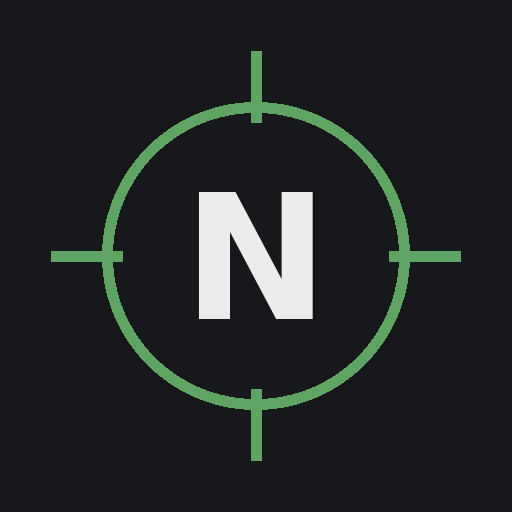
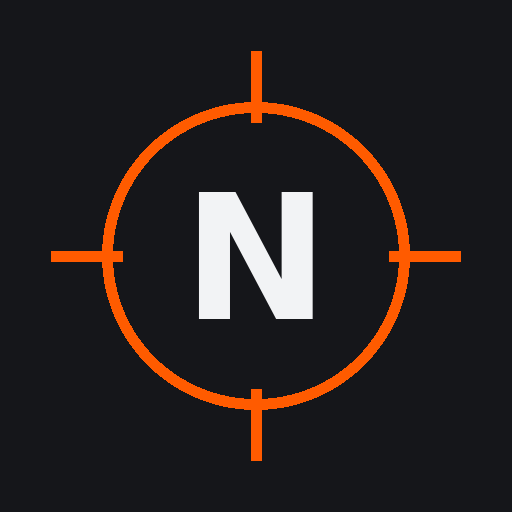
dk

Changed region(s): [[0.0938, 0.0938, 0.9062, 0.9062]]

diff --git a/app/globals.css b/app/globals.css
@@ -1,8 +1,8 @@
 @import url('https://fonts.googleapis.com/css2?family=Archivo:wght@500;600;700;800&family=Manrope:wght@400;500;600;700&display=swap');
 
 :root{
-  --bg:#16181b; --surface:#1e2125; --surface2:#24282d;
-  --border:#2b2f34; --text:#ececec; --muted:#9aa0a7; --accent:#5fa463; --logo:#5fa463;
+  --bg:#15161a; --surface:#1e2026; --surface2:#25282f;
+  --border:#2a2d34; --text:#f2f3f5; --muted:#9aa0aa; --accent:#ff5b00; --logo:#ff5b00;
 }
 *{box-sizing:border-box;}
 html,body{margin:0;padding:0;}
@@ -24,12 +24,12 @@ body{font-family:'Manrope',sans-serif;background:var(--bg);color:var(--text);min
 
 .ub-header{display:flex;align-items:center;justify-content:space-between;padding:18px 28px;border-bottom:1px solid var(--border);background:rgba(22,24,27,.9);backdrop-filter:blur(8px);position:sticky;top:0;z-index:20;gap:12px;flex-wrap:wrap;}
 .ub-headbtns{display:flex;align-items:center;gap:8px;flex-wrap:wrap;}
-.ub-adminflag{display:inline-flex;align-items:center;font-size:11px;font-weight:700;letter-spacing:1px;text-transform:uppercase;color:var(--accent);background:#16271b;border:1px solid rgba(95,164,99,.4);border-radius:999px;padding:3px 10px;}
+.ub-adminflag{display:inline-flex;align-items:center;font-size:11px;font-weight:700;letter-spacing:1px;text-transform:uppercase;color:var(--accent);background:#2a1408;border:1px solid rgba(255,91,0,.4);border-radius:999px;padding:3px 10px;}
 .ub-savemsg{font-size:12px;color:var(--muted);align-self:center;}
 .ub-toolbtn{display:inline-flex;align-items:center;gap:6px;background:var(--surface);border:1px solid var(--border);border-radius:8px;color:var(--muted);padding:9px 13px;font-family:'Manrope',sans-serif;font-weight:600;font-size:13px;cursor:pointer;transition:all .15s;}
 .ub-toolbtn:hover{color:var(--text);border-color:#3b4046;}
 .ub-toolbtn:disabled{opacity:.6;cursor:default;}
-.ub-addbtn{display:inline-flex;align-items:center;gap:7px;background:var(--accent);color:#0d1f12;border:none;border-radius:8px;padding:9px 16px;font-family:'Manrope',sans-serif;font-weight:700;font-size:13px;cursor:pointer;transition:background .15s,transform .1s;}
+.ub-addbtn{display:inline-flex;align-items:center;gap:7px;background:var(--accent);color:#1f0c04;border:none;border-radius:8px;padding:9px 16px;font-family:'Manrope',sans-serif;font-weight:700;font-size:13px;cursor:pointer;transition:background .15s,transform .1s;}
 .ub-addbtn:hover{background:#ff7d4f;}
 .ub-addbtn:active{transform:translateY(1px);}
 
@@ -46,7 +46,7 @@ body{font-family:'Manrope',sans-serif;background:var(--bg);color:var(--text);min
 .ub-mapcard-name{font-weight:600;font-size:14px;color:var(--text);}
 .ub-mapcard-count{font-size:12px;color:var(--muted);background:var(--surface2);border-radius:999px;padding:1px 8px;}
 .ub-mapcard:hover{border-color:#3b4046;}
-.ub-mapcard.active{border-color:var(--accent);background:#16271b;}
+.ub-mapcard.active{border-color:var(--accent);background:#2a1408;}
 .ub-mapcard.active .ub-mapcard-count{color:var(--accent);}
 
 .ub-controls{display:flex;flex-wrap:wrap;gap:12px;align-items:center;padding:22px 28px;}
@@ -54,11 +54,11 @@ body{font-family:'Manrope',sans-serif;background:var(--bg);color:var(--text);min
 .ub-filter-icon{color:var(--muted);}
 .ub-pill{display:inline-flex;align-items:center;gap:6px;background:var(--surface);border:1px solid var(--border);border-radius:999px;color:var(--muted);padding:7px 14px;font-size:13px;cursor:pointer;transition:all .15s;font-family:'Manrope',sans-serif;}
 .ub-pill:hover{color:var(--text);border-color:#3b4046;}
-.ub-pill.active{background:var(--accent);border-color:var(--accent);color:#0d1f12;font-weight:700;}
-.ub-pill-type.active{background:#16271b;font-weight:700;}
+.ub-pill.active{background:var(--accent);border-color:var(--accent);color:#1f0c04;font-weight:700;}
+.ub-pill-type.active{background:#2a1408;font-weight:700;}
 .ub-viewtoggle{display:flex;border:1px solid var(--border);border-radius:999px;overflow:hidden;}
 .ub-viewtoggle button{display:inline-flex;align-items:center;gap:6px;background:var(--surface);border:none;color:var(--muted);padding:7px 14px;font-size:13px;cursor:pointer;font-family:'Manrope',sans-serif;}
-.ub-viewtoggle button.active{background:#16271b;color:var(--accent);font-weight:600;}
+.ub-viewtoggle button.active{background:#2a1408;color:var(--accent);font-weight:600;}
 .ub-search{margin-left:auto;display:flex;align-items:center;gap:8px;background:var(--surface);border:1px solid var(--border);border-radius:999px;padding:7px 15px;color:var(--muted);}
 .ub-search input{background:none;border:none;outline:none;color:var(--text);font-family:'Manrope',sans-serif;font-size:13px;width:150px;}
 .ub-search input::placeholder{color:var(--muted);}
@@ -79,14 +79,14 @@ body{font-family:'Manrope',sans-serif;background:var(--bg);color:var(--text);min
 .ub-map-schema{position:absolute;inset:0;}
 .ub-zone{position:absolute;z-index:1;border:1px solid var(--border);border-radius:8px;background:rgba(255,255,255,.02);display:flex;align-items:center;justify-content:center;text-align:center;padding:2px;overflow:hidden;}
 .ub-zone span{font-family:'Archivo',sans-serif;font-size:11px;font-weight:600;color:var(--muted);letter-spacing:.3px;white-space:nowrap;}
-.ub-zone.site{border-color:rgba(95,164,99,.45);background:rgba(95,164,99,.07);}
+.ub-zone.site{border-color:rgba(255,91,0,.45);background:rgba(255,91,0,.07);}
 .ub-zone.site span{color:var(--accent);font-size:13px;font-weight:700;}
 .ub-pin{position:absolute;z-index:2;transform:translate(-50%,-50%);background:none;border:none;cursor:pointer;padding:0;}
 .ub-pin-dot{display:block;width:15px;height:15px;border-radius:50%;background:var(--pin,var(--accent));border:2.5px solid #16181b;box-shadow:0 1px 6px rgba(0,0,0,.55);transition:transform .15s;}
 .ub-pin:hover .ub-pin-dot{transform:scale(1.3);}
 .ub-pin-marker{display:flex;align-items:center;justify-content:center;width:27px;height:27px;border-radius:50%;background:var(--pin,var(--accent));border:2.5px solid #16181b;box-shadow:0 1px 6px rgba(0,0,0,.55);color:#16181b;transition:transform .15s;}
 .ub-pin:hover .ub-pin-marker{transform:scale(1.16);}
-.ub-pin-draft{--pin:#5fa463;pointer-events:none;animation:ubpulse 1.1s infinite;}
+.ub-pin-draft{--pin:#ff5b00;pointer-events:none;animation:ubpulse 1.1s infinite;}
 @keyframes ubpulse{0%,100%{opacity:1;}50%{opacity:.45;}}
 .ub-maplegend{background:var(--surface);border:1px solid var(--border);border-radius:14px;padding:18px 20px;min-width:200px;flex:1 1 240px;}
 .ub-legend-title{font-size:12px;letter-spacing:.5px;color:var(--muted);margin-bottom:14px;}
@@ -127,7 +127,7 @@ body{font-family:'Manrope',sans-serif;background:var(--bg);color:var(--text);min
 .ub-throw{color:var(--text);}
 .ub-video{margin:18px 0;border-radius:12px;overflow:hidden;border:1px solid var(--border);background:#000;aspect-ratio:16/9;}
 .ub-video video,.ub-video iframe{width:100%;height:100%;display:block;border:0;}
-.ub-tip{background:#16271b;border:1px solid rgba(95,164,99,.28);border-radius:10px;padding:14px 16px;margin:18px 0;font-size:14px;line-height:1.6;color:var(--text);}
+.ub-tip{background:#2a1408;border:1px solid rgba(255,91,0,.28);border-radius:10px;padding:14px 16px;margin:18px 0;font-size:14px;line-height:1.6;color:var(--text);}
 .ub-tip-label{display:block;font-size:11px;letter-spacing:1px;color:var(--accent);margin-bottom:6px;text-transform:uppercase;}
 .ub-steps-label{font-size:11px;letter-spacing:1px;text-transform:uppercase;color:var(--muted);margin:18px 0 10px;}
 .ub-steps{display:grid;grid-template-columns:repeat(auto-fit,minmax(200px,1fr));gap:14px;}
@@ -150,7 +150,7 @@ body{font-family:'Manrope',sans-serif;background:var(--bg);color:var(--text);min
 .ub-field{display:flex;flex-direction:column;gap:5px;}
 .ub-field span{font-size:12px;letter-spacing:.3px;color:var(--muted);}
 .ub-field input,.ub-field select,.ub-field textarea{background:var(--bg);border:1px solid var(--border);border-radius:8px;color:var(--text);padding:10px 12px;font-family:'Manrope',sans-serif;font-size:14px;outline:none;}
-.ub-field input:focus,.ub-field select:focus,.ub-field textarea:focus{border-color:var(--accent);box-shadow:0 0 0 3px rgba(95,164,99,.14);}
+.ub-field input:focus,.ub-field select:focus,.ub-field textarea:focus{border-color:var(--accent);box-shadow:0 0 0 3px rgba(255,91,0,.14);}
 .ub-field-row{display:flex;gap:12px;}
 .ub-field-row .ub-field{flex:1;}
 .ub-steps-edit{border:1px solid var(--border);border-radius:10px;padding:14px;display:flex;flex-direction:column;gap:9px;background:var(--bg);}
@@ -160,7 +160,7 @@ body{font-family:'Manrope',sans-serif;background:var(--bg);color:var(--text);min
 .ub-step-edit select,.ub-step-edit input{background:var(--surface);border:1px solid var(--border);border-radius:7px;color:var(--text);padding:8px 9px;font-family:'Manrope',sans-serif;font-size:13px;outline:none;}
 .ub-step-rm{background:var(--surface);border:1px solid var(--border);border-radius:7px;color:var(--muted);cursor:pointer;padding:7px;display:flex;}
 .ub-step-rm:hover{color:#e0483a;border-color:#5e2b26;}
-.ub-btn-primary{display:inline-flex;align-items:center;justify-content:center;gap:7px;background:var(--accent);color:#0d1f12;border:none;border-radius:8px;padding:11px 18px;font-family:'Manrope',sans-serif;font-weight:700;font-size:14px;cursor:pointer;transition:background .15s;}
+.ub-btn-primary{display:inline-flex;align-items:center;justify-content:center;gap:7px;background:var(--accent);color:#1f0c04;border:none;border-radius:8px;padding:11px 18px;font-family:'Manrope',sans-serif;font-weight:700;font-size:14px;cursor:pointer;transition:background .15s;}
 .ub-btn-primary:hover{background:#ff7d4f;}
 .ub-btn-primary:disabled{background:#2b2f34;color:#6b7078;cursor:not-allowed;}
 .ub-submit{margin-top:4px;}
@@ -198,7 +198,7 @@ body{font-family:'Manrope',sans-serif;background:var(--bg);color:var(--text);min
 .nl-cardbody{padding:13px 15px;}
 .nl-cardtop{display:flex;align-items:center;justify-content:space-between;margin-bottom:10px;}
 .nl-name{font-family:'Archivo',sans-serif;font-weight:800;font-size:18px;letter-spacing:-.3px;}
-.nl-count{font-size:12px;color:var(--accent);background:#16271b;border:1px solid rgba(95,164,99,.4);border-radius:999px;padding:2px 9px;}
+.nl-count{font-size:12px;color:var(--accent);background:#2a1408;border:1px solid rgba(255,91,0,.4);border-radius:999px;padding:2px 9px;}
 .nl-soon{font-size:12px;color:var(--muted);margin-top:6px;}
 .nl-dots{display:flex;align-items:center;gap:6px;}
 .nl-dot{width:8px;height:8px;border-radius:50%;}
@@ -252,7 +252,7 @@ body{font-family:'Manrope',sans-serif;background:var(--bg);color:var(--text);min
 /* placement tabs in the form */
 .ub-place-tabs{display:flex;gap:8px;margin-bottom:8px;}
 .ub-place-tabs button{flex:1;display:inline-flex;align-items:center;justify-content:center;gap:6px;background:var(--surface);border:1px solid var(--border);border-radius:8px;color:var(--muted);padding:8px 10px;font-family:'Manrope',sans-serif;font-size:12.5px;font-weight:600;cursor:pointer;transition:all .15s;}
-.ub-place-tabs button.on{border-color:var(--accent);color:var(--accent);background:#16271b;}
+.ub-place-tabs button.on{border-color:var(--accent);color:var(--accent);background:#2a1408;}
 
 /* spot variant panel */
 .ub-spotpanel{display:flex;flex-direction:column;gap:4px;}
@@ -281,7 +281,7 @@ body{font-family:'Manrope',sans-serif;background:var(--bg);color:var(--text);min
 .dh-head{display:flex;align-items:flex-end;justify-content:space-between;padding:28px 0 18px;gap:16px;flex-wrap:wrap;border-bottom:1px solid var(--border);margin-bottom:18px;}
 .dh-roombar{display:flex;align-items:center;gap:8px;flex-wrap:wrap;}
 .dh-roomtag{display:inline-flex;align-items:center;gap:6px;font-size:12.5px;color:var(--muted);background:var(--surface);border:1px solid var(--border);border-radius:999px;padding:6px 12px;}
-.dh-roomtag.host{color:var(--accent);border-color:rgba(95,164,99,.4);background:#16271b;}
+.dh-roomtag.host{color:var(--accent);border-color:rgba(255,91,0,.4);background:#2a1408;}
 .dh-hint,.dh-note{font-size:12px;color:var(--muted);}
 .dh-err{color:#e0483a;font-size:13px;margin-bottom:12px;}
 .dh-stage{display:flex;justify-content:center;}
@@ -290,7 +290,7 @@ body{font-family:'Manrope',sans-serif;background:var(--bg);color:var(--text);min
 .dh-yaw{position:absolute;left:50%;top:50%;width:11px;height:2px;background:var(--c);transform-origin:left center;border-radius:2px;opacity:.85;}
 .dh-event{position:absolute;z-index:2;transform:translate(-50%,-50%);width:18px;height:18px;border:2px solid #e0483a;border-radius:50%;opacity:.8;animation:ubpulse .8s infinite;}
 .dh-controls{display:flex;align-items:center;gap:12px;margin-top:18px;background:var(--surface);border:1px solid var(--border);border-radius:12px;padding:12px 16px;flex-wrap:wrap;}
-.dh-play{display:flex;align-items:center;justify-content:center;width:40px;height:40px;border-radius:50%;background:var(--accent);color:#0d1f12;border:none;cursor:pointer;}
+.dh-play{display:flex;align-items:center;justify-content:center;width:40px;height:40px;border-radius:50%;background:var(--accent);color:#1f0c04;border:none;cursor:pointer;}
 .dh-play:disabled{background:#2b2f34;color:#6b7078;cursor:not-allowed;}
 .dh-ctrl{display:flex;align-items:center;justify-content:center;width:36px;height:36px;border-radius:8px;background:var(--surface2);border:1px solid var(--border);color:var(--text);cursor:pointer;}
 .dh-ctrl:disabled{opacity:.5;cursor:not-allowed;}
@@ -298,7 +298,7 @@ body{font-family:'Manrope',sans-serif;background:var(--bg);color:var(--text);min
 .dh-seek{flex:1;min-width:160px;accent-color:var(--accent);}
 .dh-speed{display:flex;border:1px solid var(--border);border-radius:8px;overflow:hidden;}
 .dh-speed button{background:var(--surface2);border:none;color:var(--muted);padding:7px 11px;font-size:13px;cursor:pointer;font-family:'Manrope',sans-serif;}
-.dh-speed button.on{background:#16271b;color:var(--accent);font-weight:700;}
+.dh-speed button.on{background:#2a1408;color:var(--accent);font-weight:700;}
 .dh-speed button:disabled{opacity:.5;cursor:not-allowed;}
 .dh-foot{display:flex;align-items:center;gap:14px;margin-top:14px;flex-wrap:wrap;}
 .dh-note code{color:var(--accent);}
@@ -308,19 +308,19 @@ body{font-family:'Manrope',sans-serif;background:var(--bg);color:var(--text);min
 .dh-left{flex:1 1 520px;min-width:0;}
 .dh-viewtoggle{display:flex;align-items:center;gap:8px;margin-bottom:12px;flex-wrap:wrap;}
 .dh-viewtoggle button{display:inline-flex;align-items:center;gap:6px;background:var(--surface);border:1px solid var(--border);border-radius:8px;color:var(--muted);padding:7px 12px;font-size:13px;font-weight:600;cursor:pointer;font-family:'Manrope',sans-serif;transition:all .15s;}
-.dh-viewtoggle button.on{border-color:var(--accent);color:var(--accent);background:#16271b;}
+.dh-viewtoggle button.on{border-color:var(--accent);color:var(--accent);background:#2a1408;}
 .dh-viewtoggle button:disabled{opacity:.5;cursor:default;}
 .dh-povlabel{font-size:12px;color:var(--muted);margin-left:auto;}
 .dh-scene{width:100%;border:1px solid var(--border);border-radius:14px;overflow:hidden;line-height:0;background:#16181b;}
 .dh-scene canvas{display:block;width:100%;height:auto;}
-.dh-dot.sel{width:17px;height:17px;box-shadow:0 0 0 3px rgba(95,164,99,.5),0 1px 5px rgba(0,0,0,.6);z-index:4;}
+.dh-dot.sel{width:17px;height:17px;box-shadow:0 0 0 3px rgba(255,91,0,.5),0 1px 5px rgba(0,0,0,.6);z-index:4;}
 .dh-roster{flex:0 0 220px;background:var(--surface);border:1px solid var(--border);border-radius:12px;padding:14px;}
 .dh-rosterhead{font-size:11px;letter-spacing:1px;text-transform:uppercase;color:var(--muted);margin-bottom:12px;}
 .dh-team{margin-bottom:14px;}
 .dh-teamname{font-family:'Archivo',sans-serif;font-weight:800;font-size:13px;letter-spacing:1px;margin-bottom:6px;}
 .dh-player{display:flex;align-items:center;gap:8px;width:100%;background:var(--bg);border:1px solid var(--border);border-radius:8px;color:var(--text);padding:8px 10px;font-size:13px;cursor:pointer;margin-bottom:6px;font-family:'Manrope',sans-serif;transition:all .12s;}
 .dh-player:hover:not(:disabled){border-color:#3b4046;}
-.dh-player.sel{border-color:var(--accent);background:#16271b;color:var(--accent);}
+.dh-player.sel{border-color:var(--accent);background:#2a1408;color:var(--accent);}
 .dh-player:disabled{cursor:default;opacity:.85;}
 .dh-pdot{width:9px;height:9px;border-radius:50%;flex:0 0 auto;}
 .dh-peye{margin-left:auto;color:var(--accent);}
@@ -332,13 +332,13 @@ body{font-family:'Manrope',sans-serif;background:var(--bg);color:var(--text);min
 
 /* tactical HUD overlay */
 .ub-hud{position:absolute;inset:0;pointer-events:none;border-radius:14px;overflow:hidden;}
-.ub-hud i{position:absolute;width:15px;height:15px;border:2px solid var(--accent);opacity:.65;}
+.ub-hud i{position:absolute;width:15px;height:15px;border:1px solid var(--accent);opacity:.2;}
 .ub-hud i:nth-child(1){top:9px;left:9px;border-right:none;border-bottom:none;}
 .ub-hud i:nth-child(2){top:9px;right:9px;border-left:none;border-bottom:none;}
 .ub-hud i:nth-child(3){bottom:9px;left:9px;border-right:none;border-top:none;}
 .ub-hud i:nth-child(4){bottom:9px;right:9px;border-left:none;border-top:none;}
-.ub-hud::before{content:"";position:absolute;inset:0;background:repeating-linear-gradient(rgba(255,255,255,.025) 0 1px,transparent 1px 3px);}
-.ub-hud-label{position:absolute;left:13px;bottom:13px;font-family:ui-monospace,Menlo,monospace;font-size:10.5px;letter-spacing:1.5px;color:var(--accent);opacity:.9;background:rgba(12,16,18,.55);padding:2px 7px;border-radius:4px;}
+.ub-hud::before{content:"";position:absolute;inset:0;background:none;}
+.ub-hud-label{position:absolute;left:13px;bottom:13px;font-family:'Manrope',sans-serif;font-size:11px;letter-spacing:.2px;color:var(--muted);opacity:.95;background:rgba(12,16,18,.55);padding:2px 7px;border-radius:4px;}
 
 /* crosshair feel on the radar */
 .ub-map-img{cursor:crosshair;}
@@ -386,14 +386,14 @@ body{font-family:'Manrope',sans-serif;background:var(--bg);color:var(--text);min
 
 .ub-learnbtn{display:inline-flex;align-items:center;gap:6px;background:var(--surface2);border:1px solid var(--border);color:var(--muted);border-radius:8px;padding:7px 12px;font-size:13px;font-weight:600;cursor:pointer;font-family:'Manrope',sans-serif;transition:all .15s;}
 .ub-learnbtn:hover{color:var(--text);}
-.ub-learnbtn.on{border-color:var(--accent);color:var(--accent);background:#16271b;}
+.ub-learnbtn.on{border-color:var(--accent);color:var(--accent);background:#2a1408;}
 .ub-modal-headbtns{display:flex;align-items:center;gap:8px;flex-wrap:wrap;margin-top:4px;}
 .ub-learnflag{display:inline-flex;color:var(--accent);}
-.ub-card.learned{border-color:rgba(95,164,99,.4);}
+.ub-card.learned{border-color:rgba(255,91,0,.4);}
 
 .ub-proj{fill:var(--c,var(--accent));filter:drop-shadow(0 0 1.4px rgba(0,0,0,.6));}
 .ub-pin.act .ub-pin-marker{animation:ubpulsering 1.5s ease-out infinite;}
-@keyframes ubpulsering{0%{box-shadow:0 0 0 0 rgba(95,164,99,.55);}70%{box-shadow:0 0 0 13px rgba(95,164,99,0);}100%{box-shadow:0 0 0 0 rgba(95,164,99,0);}}
+@keyframes ubpulsering{0%{box-shadow:0 0 0 0 rgba(255,91,0,.55);}70%{box-shadow:0 0 0 13px rgba(255,91,0,0);}100%{box-shadow:0 0 0 0 rgba(255,91,0,0);}}
 
 .ub-controls2{margin-top:10px;}
 .ub-select{background:var(--surface);border:1px solid var(--border);color:var(--text);border-radius:999px;padding:8px 14px;font-size:13px;font-family:'Manrope',sans-serif;cursor:pointer;}
@@ -431,7 +431,7 @@ body{font-family:'Manrope',sans-serif;background:var(--bg);color:var(--text);min
 .ub-lib-tabs{display:flex;gap:8px;margin:2px 0 16px;flex-wrap:wrap;}
 .ub-lib-tabs button{display:inline-flex;align-items:center;gap:7px;background:var(--surface);border:1px solid var(--border);color:var(--muted);border-radius:999px;padding:8px 14px;font-size:13px;font-weight:600;cursor:pointer;font-family:'Manrope',sans-serif;transition:all .15s;}
 .ub-lib-tabs button:hover{color:var(--text);}
-.ub-lib-tabs button.on{background:#16271b;border-color:var(--accent);color:var(--accent);}
+.ub-lib-tabs button.on{background:#2a1408;border-color:var(--accent);color:var(--accent);}
 .ub-lib-count{background:rgba(255,255,255,.08);border-radius:999px;padding:1px 7px;font-size:11px;font-weight:700;}
 .ub-lib-body{min-height:160px;}
 .ub-lib-empty{display:flex;flex-direction:column;align-items:center;justify-content:center;gap:10px;text-align:center;color:var(--muted);padding:46px 20px;}
@@ -485,3 +485,15 @@ body{font-family:'Manrope',sans-serif;background:var(--bg);color:var(--text);min
 .ub-colhead{display:flex;align-items:center;justify-content:space-between;gap:10px;margin-bottom:6px;}
 .ub-shared-head{display:flex;align-items:flex-start;justify-content:space-between;gap:14px;flex-wrap:wrap;margin-bottom:14px;}
 .ub-shared-head .ub-lib-colname{margin:2px 0 0;}
+
+
+/* --- FACEIT-orange gamer polish --- */
+.ub-discord{background:var(--accent);border-color:var(--accent);color:#1f0c04;font-weight:700;}
+.ub-discord:hover{background:#ff6f1f;border-color:#ff6f1f;}
+.ub-card{border-radius:16px;}
+.ub-card-thumb{border-radius:16px 16px 0 0;}
+.ub-typebadge{background:color-mix(in srgb, currentColor 14%, transparent);padding:3px 9px;border-radius:8px;}
+.ub-meta-chip{background:color-mix(in srgb, currentColor 15%, transparent);padding:3px 9px;border-radius:8px;font-weight:600;}
+.ub-btn-primary{border-radius:10px;}
+.ub-toolbtn{border-radius:10px;}
+.ub-hud-label{border-radius:7px;}

diff --git a/components/TacticalMap.js b/components/TacticalMap.js
@@ -143,7 +143,7 @@ export default function TacticalMap({
       {!addMode && (
         <div className="ub-hud" aria-hidden="true">
           <i /><i /><i /><i />
-          <span className="ub-hud-label">{map.name.toUpperCase()} // {spots.length} SPOT{spots.length !== 1 ? "S" : ""}</span>
+          <span className="ub-hud-label">{map.name} · {spots.length} spot{spots.length !== 1 ? "s" : ""}</span>
         </div>
       )}
     </div>